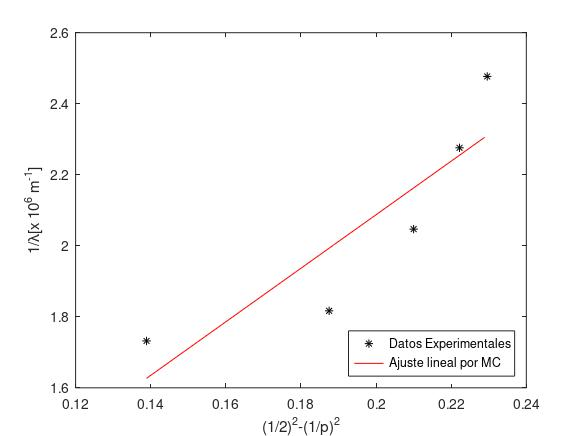
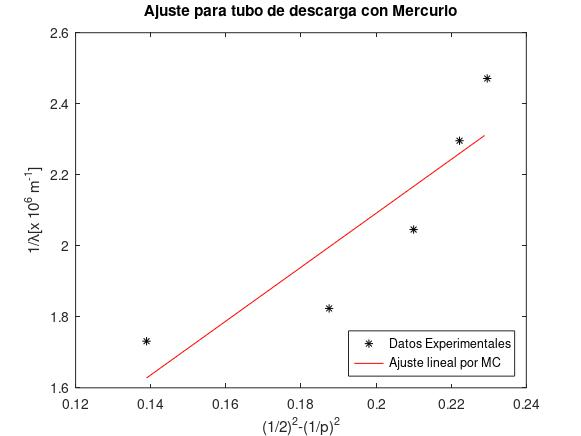
Se termina practica 6 EFM. Y se adicionan codigos de factor de rizado para practica diodos EA.

diff --git a/EFM20212/6/mercurio.m b/EFM20212/6/mercurio.m
@@ -1,6 +1,7 @@
 clear all; close all;
-y1 = 27.0; y2 = 29.5; y3 = 33.0; y4 = 37.5; y5 = 39.5; deltay = 0.5;
-D = 131; d = 2e-6; m = 1; q = 2;
+format long
+y1 = 25.0; y2 = 27.0; y3 = 30.5; y4 = 34.5; y5 = 36.5; deltay = 0.5;
+D = 121; d = 2e-6; m = 1; q = 2;
 theta1 = atan(y1/D)
 deltatheta1 = deltay*(1/(D+y1))
 theta2 = atan(y2/D)
@@ -24,7 +25,7 @@ deltalambda5 = deltatheta5*(d/m)*cos(theta5)
 for i = 3:7
   x(i-2) = (1/q^2)-(1/i^2);
 end
-y = [1/lambda5 1/lambda4 1/lambda3 1/lambda2 1/lambda1];
+y = [1/lambda5 1/lambda4 1/lambda3 1/lambda2 1/lambda1]
 N = length(x); sxy = sum(x.*y); sxx = sum(x.*x); syy = sum(y.*y); sx = sum(x); sy = sum(y);
 a = (((N)*(sxy))-((sx)*(sy)))/(((N)*(sxx))-((sx)*(sx)))
 b = (((sxx)*(sy))-((sx)*(sxy)))/(((N)*(sxx))-((sx)*(sx)))
@@ -34,4 +35,4 @@ incertidumbreb=sqrt((sei)/(N-2))*sqrt((sxx)/(((N)*(sxx))-((sx)*(sx))))
 r = (((N)*(sxy))-((sx)*(sy)))/(sqrt(((N)*(sxx))-((sx)*(sx)))*sqrt(((N)*(syy))-((sy)*(sy))))
 xx = min(x):0.01:max(x); yy = a*xx+b;
 plot(x,y,'k*',xx,yy,'r-'); legend('Datos Experimentales','Ajuste lineal por MC', 'Location','southeast')
-xlabel('(1/2)^2-(1/p)^2');ylabel('1/\lambda[m^{-1}]');
+xlabel('(1/2)^2-(1/p)^2');ylabel('1/\lambda[x 10^{6} m^{-1}]'); title('Ajuste para tubo de descarga con Mercurio')

diff --git a/Electronica Analogica/Entrega4/Factor de Rizado/Capacitancia Variable/capacitancia.m b/Electronica Analogica/Entrega4/Factor de Rizado/Capacitancia Variable/capacitancia.m
@@ -1,0 +1,11 @@
+clear all; close all;
+RL = 1000; F = 60;
+C = [0.47e-6 1e-6 4.7e-6 10e-6 20e-6 30e-6 40e-6 100e-6 200e-6 400e-6 1000e-6];
+VR = [8.8 8.4 5.2 3.6 2.4 1.6 1.3 0.560 0.3 0.26 0.08];
+DELTAVR = [0.28 0.28 0.28 0.28 0.28 0.28 0.2 0.08 0.04 0.04 0.02];
+VP = [9.0 9.0 9.0 9.0 9.0 9.0 9.0 9.0 9.0 9.0 9.0];
+DELTAVP = [0.2 0.2 0.2 0.2 0.2 0.2 0.2 0.2 0.2 0.2 0.2 ];
+VCD = VP.*(1-((1)./(2*pi*F*RL*C)));
+DELTAVCD = DELTAVP.*(1-((1)./(2*pi*F*RL*C)));
+FR = (VR./VCD)*100;
+plot(C,FR,'-*k')

diff --git a/Electronica Analogica/Entrega4/Factor de Rizado/Resistencia Variable/resistencia.m b/Electronica Analogica/Entrega4/Factor de Rizado/Resistencia Variable/resistencia.m
@@ -1,0 +1,11 @@
+clear all; close all;
+C = 100e-6; F = 60;
+RL = [50 100 200 300 500 800 1000 2000 3000 5000 10000];
+VR = [4.6 3.2 2 1.5 1.0 0.68 0.56 0.3 0.22 0.14 0.09];
+DELTAVR = [0.28 0.28 0.28 0.2 0.2 0.08 0.08 0.04 0.04 0.02 0.02];
+VP = [8.6 8.6 8.6 8.6 8.8 8.8 8.8 8.8 8.8 8.8 8.8 ];
+DELTAVP = [0.2 0.2 0.2 0.2 0.2 0.2 0.2 0.2 0.2 0.2 0.2 ];
+VCD = VP.*(1-((1)./(2*pi*F*RL*C)));
+DELTAVCD = DELTAVP.*(1-((1)./(2*pi*F*RL*C)));
+FR = (VR./VCD)*100;
+plot(RL,FR,'-*k')

diff --git a/EFM20212/6/sodio.m b/EFM20212/6/sodio.m
@@ -1,6 +1,6 @@
 clear all; close all;
-y1 = 11.0; y2 = 23.0; y3 = 38.5; deltay = 0.5;
-D = 61; d = 3.333333e-6; m1 = 1; m2 = 2; m3 = 3;
+y1 = 9.5; y2 = 19.5; y3 = 32.5; deltay = 0.5;
+D = 52; d = 3.333333e-6; m1 = 1; m2 = 2; m3 = 3;
 theta1 = atan(y1/D)
 deltatheta1 = deltay*(1/(D+y1))
 theta2 = atan(y2/D)
